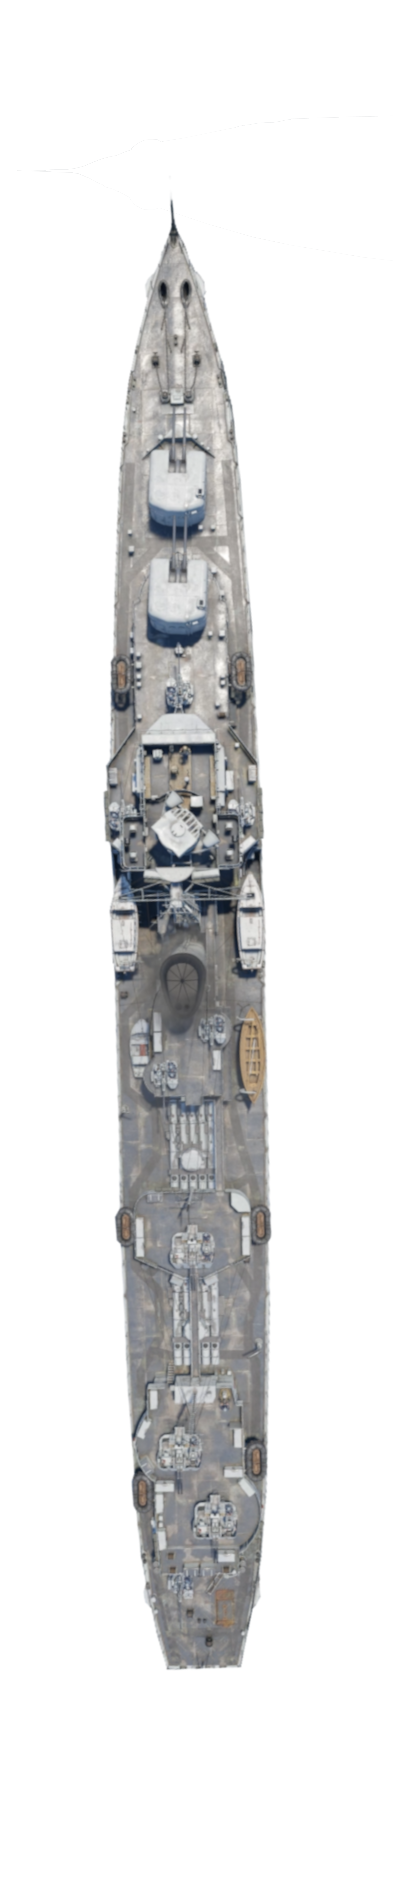
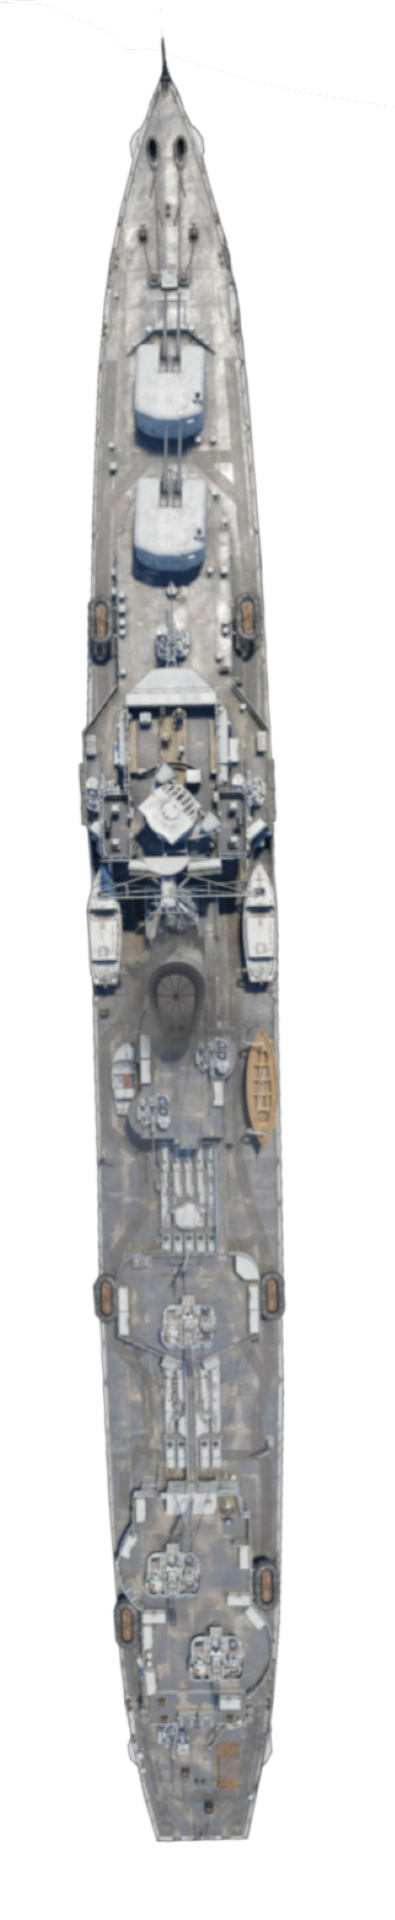
Nave
Aggiunta della classe nave

Changed region(s): [[0.1832, 0.0, 0.7328, 0.9677]]

diff --git a/main.py b/main.py
@@ -1,5 +1,7 @@
 import pygame
 import Grid
+import Nave
+
 
 pygame.init()
 
@@ -14,9 +16,11 @@ radar = pygame.image.load('./img/radar.jpg').convert()
 radar = pygame.transform.scale(radar, (700, 800))
 
 #creo la griglia
-my_grid = Grid.Grid()
-enemy_grid = Grid.Grid()
+my_grid = Grid.Grid(40, 13, 13)
+enemy_grid = Grid.Grid(40, 13, 13)
 
+# Inserimento navi
+corazzata = Nave.Nave("corazzata", "./img/corazzata.png", 4)
 
 
 
@@ -27,8 +31,12 @@ while runnig:
         pygame.display.flip()
         screen.blit(main, (0, 0))
         screen.blit(radar, (700, 0))
-        my_grid.draw_grid(screen, (0,0,255), offset_x = 155, offset_y = 100)
-        enemy_grid.draw_grid(screen, (0, 255, 0), offset_x = 855, offset_y = 100)
+        my_grid.draw_grid(screen, (0,0,255), offset_x = 155, offset_y = 150)
+        enemy_grid.draw_grid(screen, (0, 255, 0), offset_x = 855, offset_y = 150)
+        
+        corazzata.draw_nave(screen, offset_x = 155, offset_y = 150, cell_dimension=40)
+
+
 
 
 

diff --git a/Nave.py b/Nave.py
@@ -1,0 +1,19 @@
+import pygame
+import Grid
+
+class Nave:
+    nome = "Nave"
+    dimesione = 0
+    path_img = ""
+
+    def __init__(self, nome, path_img, dimensione=2):
+        self.nome = nome
+        self.path_img = path_img
+        self.dimesione = dimensione
+
+    def draw_nave(self, screen, offset_x, offset_y, cell_dimension=30):
+        img = pygame.image.load(self.path_img)
+        img = pygame.transform.scale(img, (cell_dimension * self.dimesione, cell_dimension))
+        img = pygame.transform.rotate(img, 90)
+        screen.blit(img, (offset_x, offset_y))
+        

diff --git a/Grid.py b/Grid.py
@@ -1,7 +1,7 @@
 import pygame
 
 class Grid:
-    cell_dimension = 0
+    cell_dimension = 30
     num_width_cells = 0
     num_height_cells = 0
 
@@ -24,3 +24,7 @@ class Grid:
         for i in range(self.num_width_cells):
             for j in range(self.num_height_cells):
                 pygame.draw.rect(screen, color, (offset_x + i * self.cell_dimension, offset_y + j * self.cell_dimension, self.cell_dimension, self.cell_dimension), 1)
+
+    def get_cell_dimension(self):
+        return self.cell_dimension
+    
